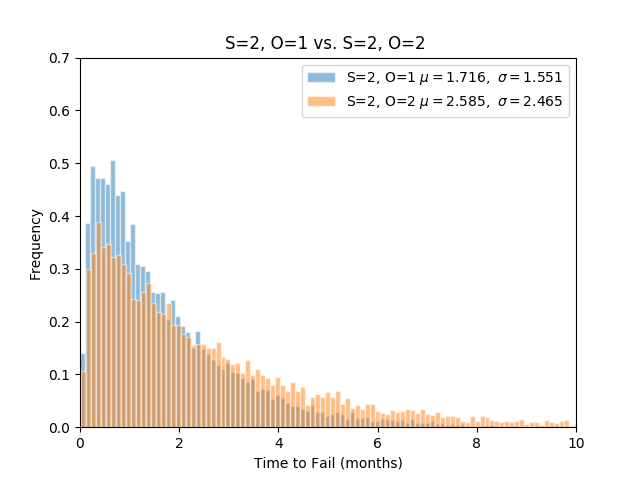
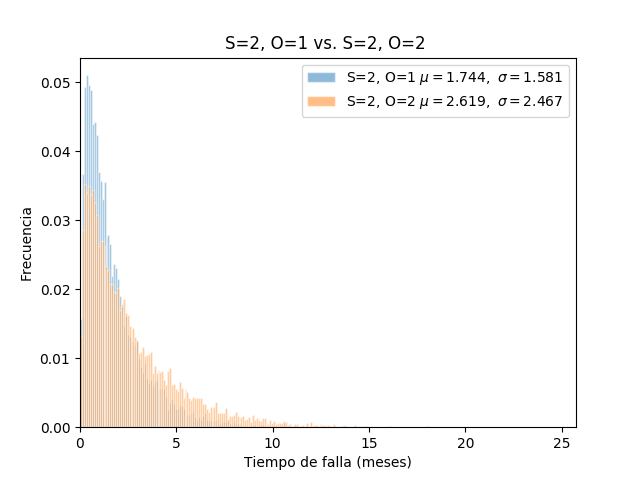
Improve histogram plotting

diff --git a/FinalProject/simulations.py b/FinalProject/simulations.py
@@ -30,13 +30,15 @@ def plot_histogram(data, h=None, title=None, label=None):
     mu, sigma = np.mean(data), sqrt(np.var(data, ddof=1))
     label = label + "$\mu={:2.3f},\ \sigma={:2.3f}$".format(mu, sigma)
 
-    plt.hist(data, nbins, normed=1, alpha=0.5, edgecolor="w", label=label)
+    data = np.array(data)
+    plt.hist(data, weights=np.zeros_like(data) + 1. / data.size, bins=nbins,
+             alpha=0.5, edgecolor="w", label=label)
     plt.legend(loc='upper right')
-    plt.xlim(0, 10)
-    plt.ylim(0, 0.7)
+    plt.xlim(0, max(data))
+
     plt.title(title)
-    plt.xlabel('Time to Fail (months)')
-    plt.ylabel('Frequency')
+    plt.xlabel('Tiempo de falla (meses)')
+    plt.ylabel('Frecuencia')
 
 
 def exponential(lambda_):
